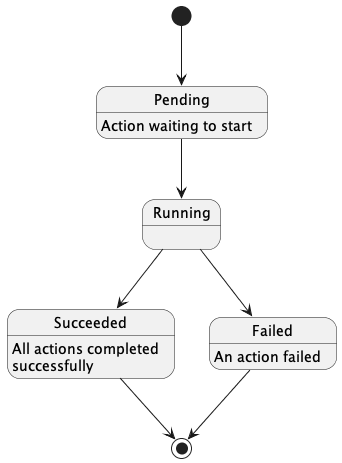
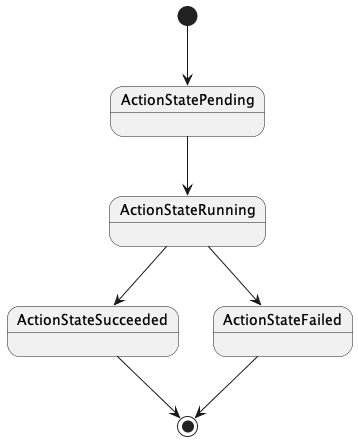
Update to use conditions

diff --git a/design/20230222_tinkerbell_crd_refactor.md b/design/20230222_tinkerbell_crd_refactor.md
@@ -133,17 +133,18 @@ type NetworkInterface struct {
 	DisableNetboot bool `json:"disableNetboot,omitempty"`
 }
 
-// DHCP describes basic network configuration to be served in DHCP offers.
+// DHCP describes basic network configuration to be served in DHCP OFFER responses. It can be
+// considered a DHCP reservation.
 type DHCP struct {
-	// IP is an IPv4 address.
+	// IP is an IPv4 address to serve.
 	// +kubebuilder:validation:Pattern="(25[0-5]|2[0-4][0-9]|[01]?[0-9][0-9]?)(\.(25[0-5]|2[0-4][0-9]|[01]?[0-9][0-9]?)){3}"
 	IP      string `json:"ip,omitempty"`
 
-	// Netmask is an IPv4 netmask.
+	// Netmask is an IPv4 netmask to serve.
 	// +kubebuilder+validation:Pattern="^(255)\.(0|128|192|224|240|248|252|254|255)\.(0|128|192|224|240|248|252|254|255)\.(0|128|192|224|240|248|252|254|255)"
 	Netmask string `json:"netmask,omitempty"`
 
-	// Gateway is the default gateway address.
+	// Gateway is the default gateway address to serve.
 	// +kubebuilder:validation:Pattern="(25[0-5]|2[0-4][0-9]|[01]?[0-9][0-9]?)(\.(25[0-5]|2[0-4][0-9]|[01]?[0-9][0-9]?)){3}"
 	// +optional
 	Gateway string `json:"gateway,omitempty"`
@@ -157,12 +158,15 @@ type DHCP struct {
 	// +optional
 	VLANID string `json:"vlanId,omitempty"`
 
+	// Nameservers to serve.
 	// +optional
 	Nameservers []Nameserver `json:"nameservers,omitempty"`
 
+	// Timeservers to serve.
 	// +optional
 	Timeservers []Timeserver `json:"timeservers,omitempty"`
 
+	// LeaseTime to serve.
 	// 24h default.
 	// +kubebuilder:default=86400
 	// +kubebuilder:validation:Minimum=0
@@ -376,14 +380,8 @@ type WorkflowStatus struct {
 	// enter a WorkflowStateFailed if 1 or more Actions fails.
 	State WorkflowState `json:"state,omitempty"`
 
-	// Reason is a short CamelCase word or phrase describing why the Workflow entered
-	// WorkflowStateFailed. It is not relevant when the State field is not WorkflowStateFailed.
-	Reason string `json:"reason,omitempty"`
-
-	// Message is a free-form user friendly message describing why the Workflow entered the
-	// WorkflowStateFailed state. Typically, this is an elaboration on the Reason. It is not
-	// relevant when the State field is not WorkflowStateFailed.
-	Message string `json:"message,omitempty"`
+	// Conditions details a set of observations about the Workflow.
+	Conditions Conditions
 }
 
 // ActionStatus describes status information about an action.
@@ -392,7 +390,7 @@ type ActionStatus struct {
 	Rendered Action `json:"rendered,omitempty"`
 
 	// StartedAt is the time the action was requested. Nil indicates the Action has not started.
-	StartedAt *metav1.Time `json:"startedAt,omitempty"`
+	StartedAt metav1.Time `json:"startedAt,omitempty"`
 
 	// State describes the current state of the action.
 	State ActionState `json:"state,omitempty"`
@@ -411,9 +409,17 @@ type ActionStatus struct {
 type WorkflowState string
 
 const (
+	// WorkflowStatePending indicates the workflow is in a pending state.
 	WorkflowStatePending   WorkflowState = "Pending"
+
+	// WorkflowStateRunning indicates the first Action has been requested and the Workflow is in
+	// progress.
 	WorkflowStateRunning   WorkflowState = "Running"
+
+	// WorkflowStateSucceeded indicates all Workflow actions have successfully completed.
 	WorkflowStateSucceeded WorkflowState = "Succeeded"
+
+	// WorkflowStateFailed indicates an Action entered a failure state.
 	WorkflowStateFailed    WorkflowState = "Failed"
 )
 
@@ -421,11 +427,94 @@ const (
 type ActionState string
 
 const (
+	// ActionStatePending indicates an Action is awaiting execution.
 	ActionStatePending      ActionState = "Pending"
+
+	// ActionStateRunning indicates an Action has begun execution.
 	ActionStateRunning      ActionState = "Running"
+
+	// ActionStateSucceeded indicates an Action completed execution successfully.
 	ActionStateSucceeded    ActionState = "Succeeded"
+
+	// ActionStatFailed indicates an Action failed to execute. Users may inspect the associated
+	// Workflow resource to gain deeper insights into why the action failed.
 	ActionStateFailed       ActionState = "Failed"
 )
+```
+
+A `Started` condition will be used to indicate the workflow has started and is observed based on the presence of `Workflow.WorkflowStatus.StartedAt`. It's severity will be `ConditionSeverityInfo` and its default Status will be `ConditionStatusFalse`.
+
+A `Succeeded` condition will be used to indicate the workflow succeeded indicated by a status of `ConditionStatusTrue`. When an action fails, `Succeeded` will become `ConditionStatusFalse` with severity `ConditionSeverityError` and the `Reason` and `Message` will be propagated from the failed `ActionStatus`.
+
+#### Conditions
+
+The conditions data structure will only be available on the `Workflow` CRD but is designed to be applicable to other resources. It provides the foundational components for extensible observations about any resource that it resides on.
+
+```go
+// ConditionType 
+type ConditionType string
+
+// ConditionSeverity expresses the severity of a Condition Type failing.
+type ConditionSeverity string
+
+const (
+  // ConditionSeverityError indicates the condition should be treated as an error.
+  ConditionSeverityError ConditionSeverity = "Error"
+
+  // ConditionSeverityWarning indicates the condition shouldbe investigated but the system may
+  // continue to work.
+  ConditionSeverityWarning ConditionSeverity = "Warning"
+
+  // ConditionSeverityInfo indicates the condition is informational only.
+  ConditionSeverityInfo ConditionSeverity = "Info"
+
+  // ConditionSeverityNone indicates the condition has no severity.
+  ConditionSeverityNone ConditionSeverity = ""
+)
+
+// ConditionStatus expresses the current state of the condition.
+type ConditionStatus string
+
+const (
+	// ConditionStatusUnknown is the default status and indicates the condition cannot be
+	// evaluated to either ConditionStatusTrue or ConditionStatusFalse.
+	ConditionStatusUnknown ConditionStatus = "Unknown"
+
+	// ConditionStatusTrue indicates the condition has been evaluated as true.
+	ConditionStatusTrue ConditionStatus = "True"
+
+	// ConditionStatusFalse indiciates the condition has been evaluated as false.
+	ConditionStatusFalse ConditionStatus = "False"
+)
+
+// Condition defines an observation on a resource that is generally attainable by inspecting 
+// other status fields.
+type Condition struct {
+   // Type of condition.
+   Type ConditionType `json:"type"`
+
+   // Status of the condition.
+   Status ConditionStatus `json:"status"`
+
+   // Severity with which to treat failures of this type of condition.
+   // +kubebuilder:default="Error"
+   // +optional
+   Severity ConditionSeverity `json:"severity,omitempty"`
+
+   // LastTransitionTime is the last time the condition transitioned from one status to another.
+   LastTransitionTime metav1.Time `json:"lastTransitionTime"`
+
+   // Reason for the conditions last transition.
+   // +optional
+   Reason string `json:"reason,omitempty"`
+
+   // Message is a human readable message indicating details about the last transition.
+   // +optional
+   Message string `json:"message,omitempty"`
+}
+
+// Conditions define a list of observations of a particular resource.
+type Conditions []Condition
 ```
 
 ### Workflow state machine
@@ -457,7 +546,9 @@ This ensures compatability with cloud-init that explores the API via the instanc
 
 ## Migrating from v1alpha1 to v1alpha2
 
-Given the relative immaturity of the Tinkerbell API we will not provide any migration tooling from `v1alpha1` to `v1alpha2`. Users will be required to manually convert `Hardware` and `Template` resources. `Workflow` resources are considered ephemeral and can generally be deleted.
+We will provide a basic utility for converting v1alpha1 `Hardware` and `Template` resources to the v1alpha2 version. For fields that cannot be represented in the v1alpha2 API the data will be dropped.
+
+`Workflow`s are considered ephemeral and should be recreated by the end user.
 
 ## Rationale
 
@@ -491,16 +582,6 @@ Reasons for failures have been introduced as a core concept, via the `Reason` fi
 
 The `Workflow` provides a `TemplateData` field that can be used to inject arbitrary data into templates. This facilitates users wanting to model variable data on `Template`s that has per-`Workflow` values.
 
-### Use of explicit `State`, `Reason` and `Message` fields vs conditions
-
-Workflows operate as a state machine (detailed in [Workflow state transition](#workflow-state-transition)). [Conditions represent observations](https://github.com/kubernetes/community/blob/master/contributors/devel/sig-architecture/api-conventions.md#typical-status-properties) about a resource and are not state machines in and of themeselves. Conditions should generally be complimentary to existing resource information, not replace it. Conditions in the Kubernetes API have a [well defined set of fields](https://github.com/kubernetes/community/blob/4c9ef2d/contributors/devel/sig-architecture/api-conventions.md#typical-status-properties). Some tools such as [Cluster API](https://github.com/kubernetes-sigs/cluster-api/blob/main/docs/proposals/20200506-conditions.md) break away by defining their own condition expectations.
-
-For these reasons, we think it would be more appropriate to have explicit fields to represent state and consider a separate conditions proposal that compliments the CRDs.
-
-### `ActionState` and `WorkflowState`
-
-Having 2 separate types helps decouple the Action and Workflow state machines. This ensures adding or removing states from Actions or Workflows will not impact the other.
-
 ## Implementation Plan
 
 1. All services that have unreleased changes will be released under a new version. This provides a baseline of functional services that can be used in the Tinkerbell Helm charts.
@@ -511,10 +592,6 @@ Having 2 separate types helps decouple the Action and Workflow state machines. T
 
 ## Future Work
 
-Introducing mechanisms to propagate `Reason` and `Message` values for action failure. As these mechanisms do not exist currently and will not be realized through this proposal, the `.Workflow.Status.Reason` and `.Workflow.Status.Message` will have minimal benefit to the end user. The separate proposal will address the contract between actions and Tink Worker that can be used to propogate a reason and message to workflows.
+Introducing mechanisms to propagate `Reason` and `Message` values for action failure. As these mechanisms do not exist currently and will not be realized through this proposal, the `.ActionStatus.Reason` and `.ActionStatus.Message` will have minimal benefit to the end user. A separate proposal will address the contract between actions and Tink Worker that can be used to propogate a reason and message to workflows.
 
-Maintainers have informally discussed inverting the relationship between `Hardware` and Rufio CRDs. This is necessary for defining a precedent on how to extend Tinkerbell functionality without expanding the scope of core Tinkerbell CRDs.
-
-Introduction of user defined metadata to be served by Hegel that could facilitate user defined actions. Similarly, injection of additional `Hardware` data when templates are rendered will be addressed on a separate ad-hoc basis.
-
-Separation of `Hardware.Instance` data into a separate CRD possibly owned by Hegel. Given the instance data is unused by the core Tinkerbell stack we anticipate, in conjunction with adjusting the relationship between Rufio and Tink CRDs, that instance metadata will be deprecated on this API and transitioned to a separate CRD.
+Separation of `Hardware.Instance` data into a separate CRD. Given the instance data is unused by the core Tinkerbell stack we anticipate, in conjunction with adjusting the relationship between Rufio and Tink CRDs, that instance metadata will be deprecated and transitioned to a separate CRD.
